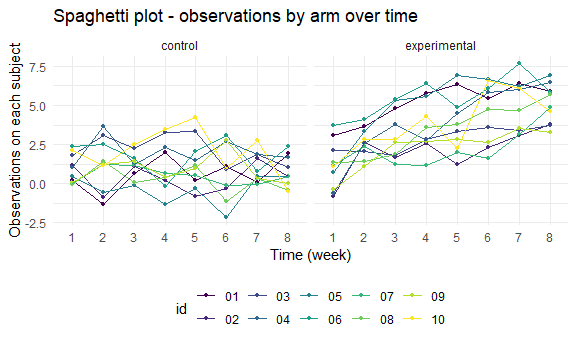
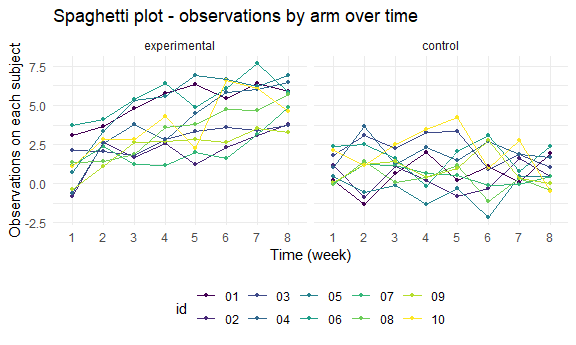
relevel the arm variable in question 2 to enhance the plots

diff --git a/p8105_hw5_ls3751.md b/p8105_hw5_ls3751.md
@@ -161,7 +161,8 @@ study_tidy = study_df %>%
                names_to = "week",
                names_prefix = "week_",
                values_to = "observation") %>% 
-  mutate(week = factor(week))
+  mutate(week = factor(week),
+         arm = fct_relevel(arm, "experimental"))
 ```
 
 </details>
